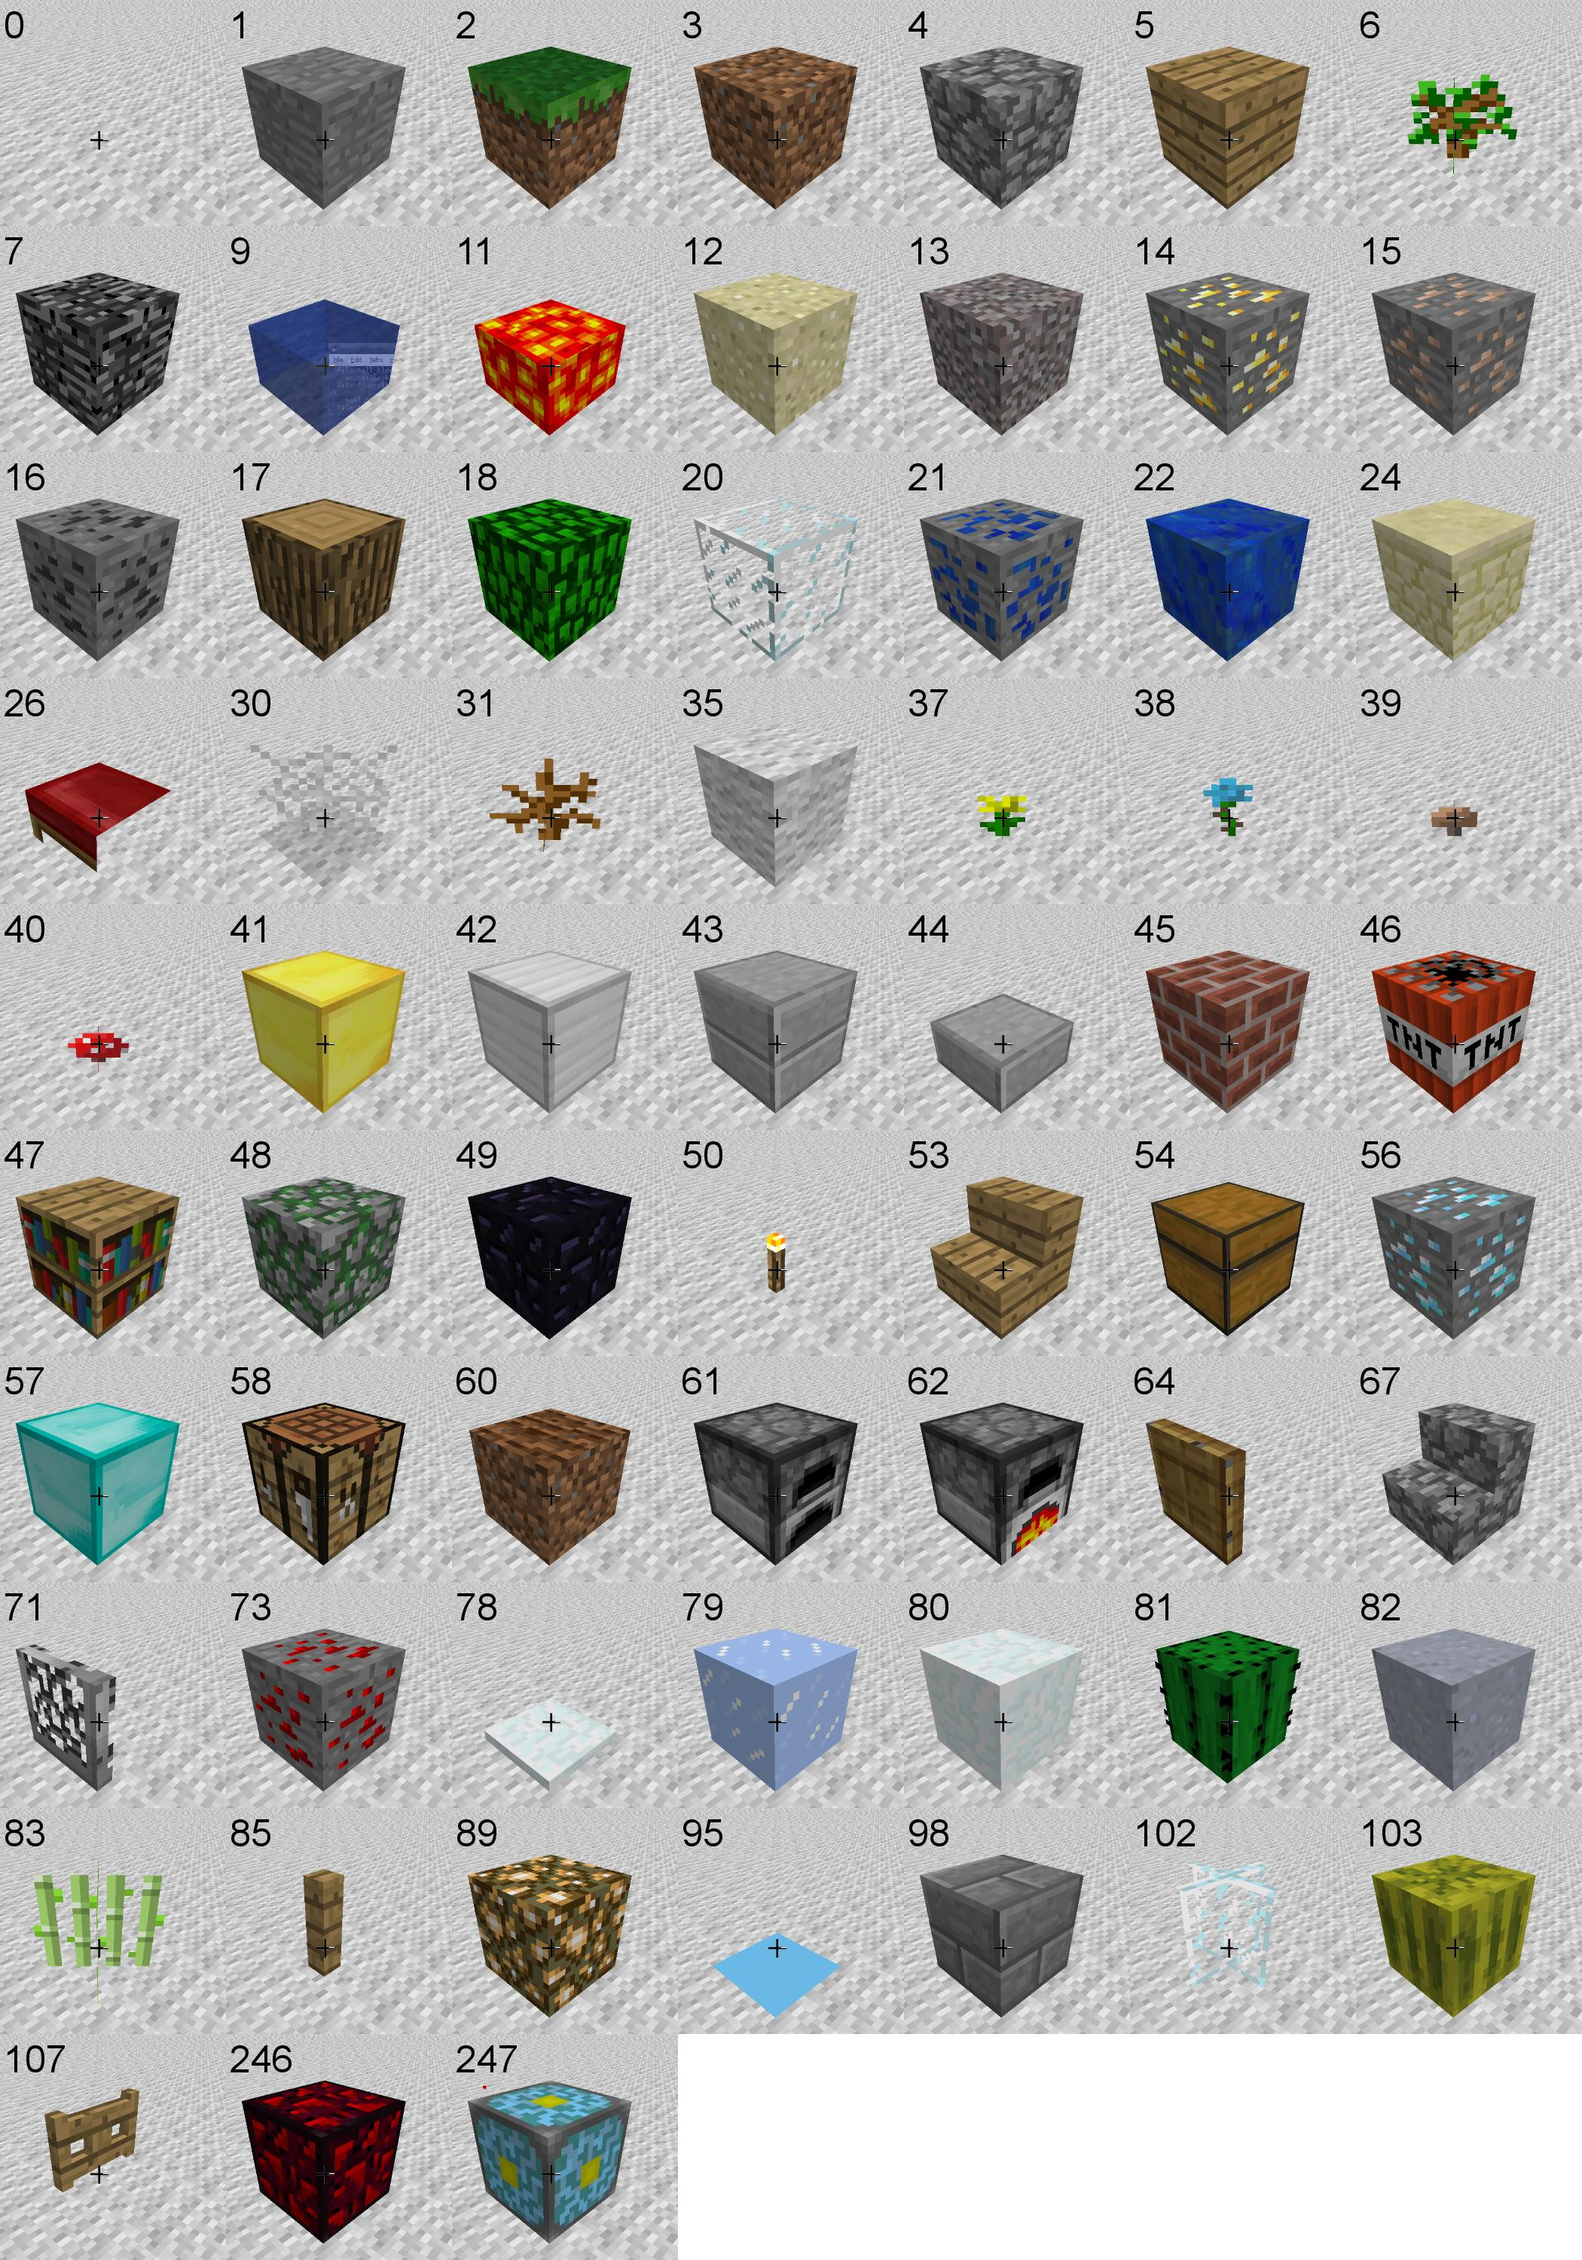
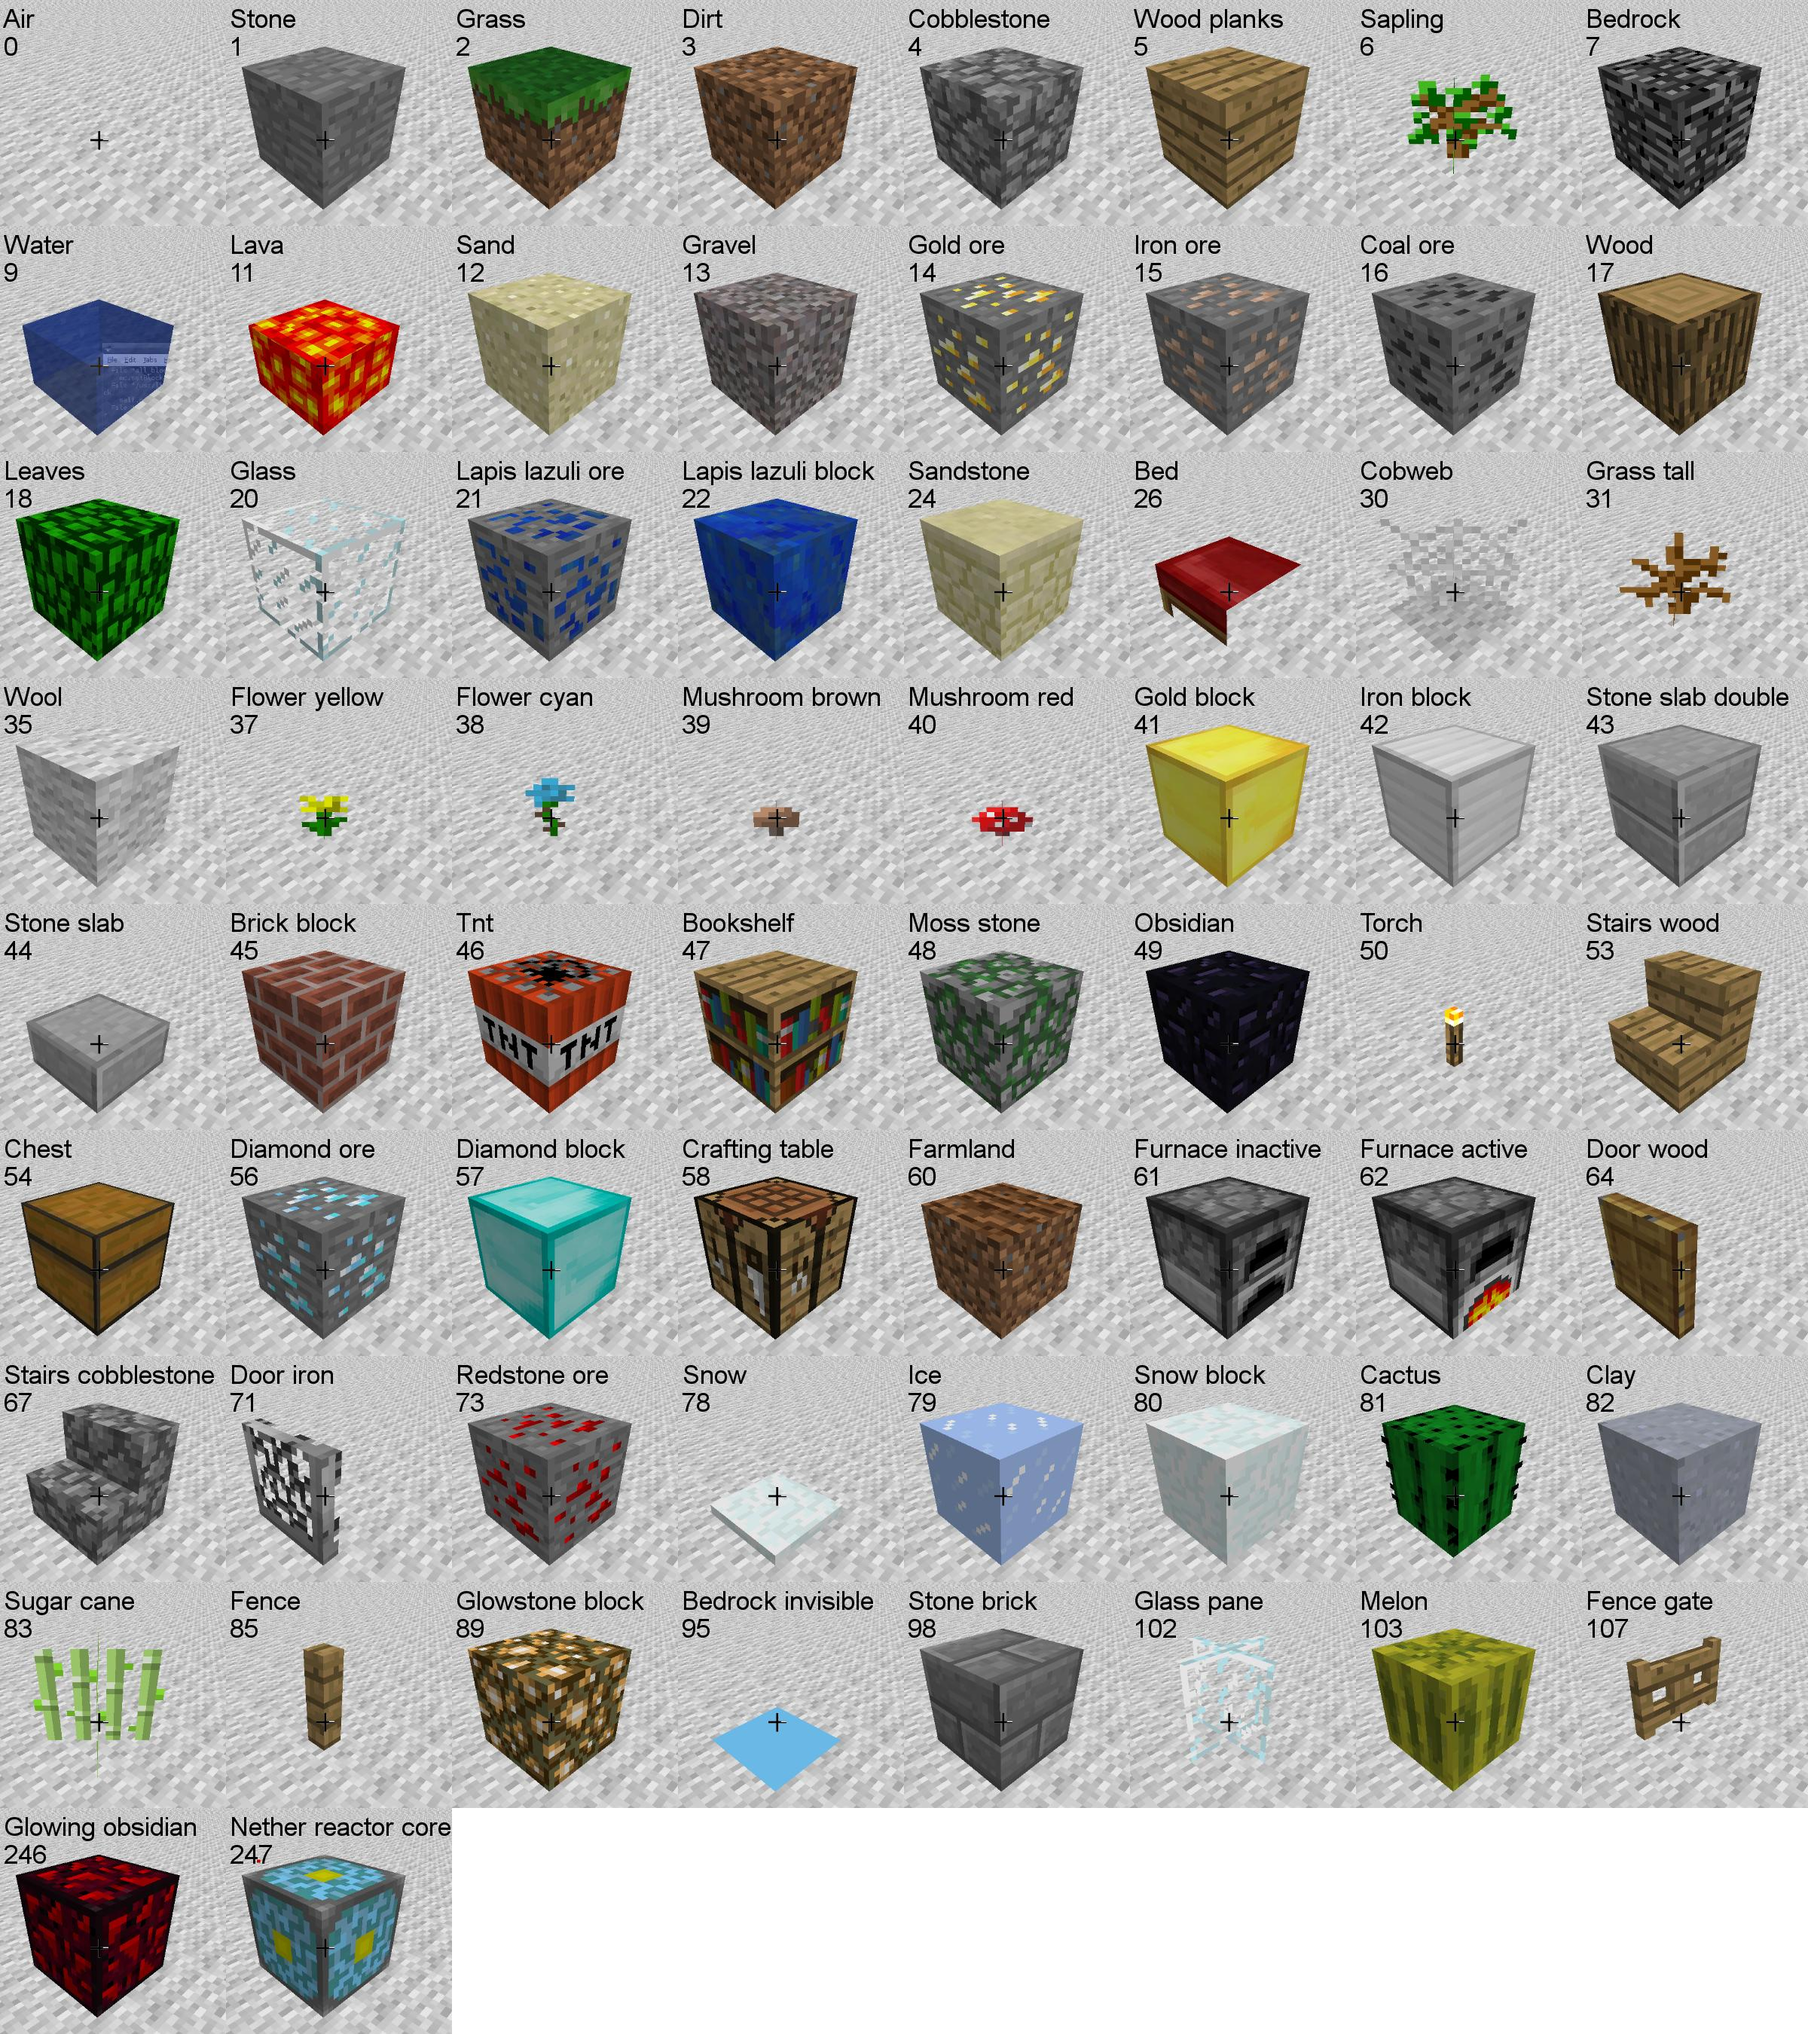
added block names

diff --git a/make_block_pic/montage.py b/make_block_pic/montage.py
@@ -1,18 +1,24 @@
 from PIL import Image, ImageDraw, ImageFont
+from block_names import names
 import os
+import math
 
-image_dir = 'wool-pngs/'
-id_file = 'wool_type'
+image_dir = 'block-pngs/'
+id_file = 'block_types'
+
+with open(id_file) as fh:
+    block_nums = fh.readlines()
 
 #how big we want the montage to be
 crop_width = 300
 crop_y_offset = 50
 x_tiles = 8
-y_tiles = 16 / x_tiles
+print(len(block_nums))
+y_tiles = int(math.ceil(len(block_nums) / float(x_tiles)))
 mont_width = x_tiles * crop_width
 
 font_path = '/usr/share/fonts/truetype/msttcorefonts/Arial.ttf'
-font_size = 50
+font_size = 35
 font = ImageFont.truetype(font_path, font_size)
 
 #sums to work out how many and how big the tiles are
@@ -24,8 +30,6 @@ print(mont_width, mont_height)
 montage_image = Image.new('RGB',(mont_width,mont_height), "white")
 draw = ImageDraw.Draw(montage_image)
 
-with open(id_file) as fh:
-    block_nums = fh.readlines()
 
 all_blocks = []
 for block_num in block_nums:
@@ -40,9 +44,9 @@ all_files = os.listdir(image_dir)
 
 x = 0
 y = 0
-for block in all_blocks:
+for block_id in all_blocks:
     #crop just the centre of it
-    file_name = image_dir + str(block) + ".png"
+    file_name = image_dir + str(block_id) + ".png"
     print(file_name)
     tile = Image.open(file_name)
     w, h = tile.size
@@ -60,7 +64,11 @@ for block in all_blocks:
     # paste it in
     box=(x*tile_width,y*tile_height,x*tile_width+tile_width,y*tile_height+tile_width)
     montage_image.paste(crop,box)
-    draw.text([x*tile_width+ 5, y*tile_height+ 5],str(block), font=font, fill="black")
+    for block_name in names.keys():
+        if names[block_name] == block_id:
+            text = block_name.capitalize()
+    draw.text([x*tile_width+ 5, y*tile_height+ 5],text, font=font, fill="black")
+    draw.text([x*tile_width+ 5, y*tile_height+ font_size*1.2],str(block_id), font=font, fill="black")
 
     x += 1
     if x > x_tiles - 1:
